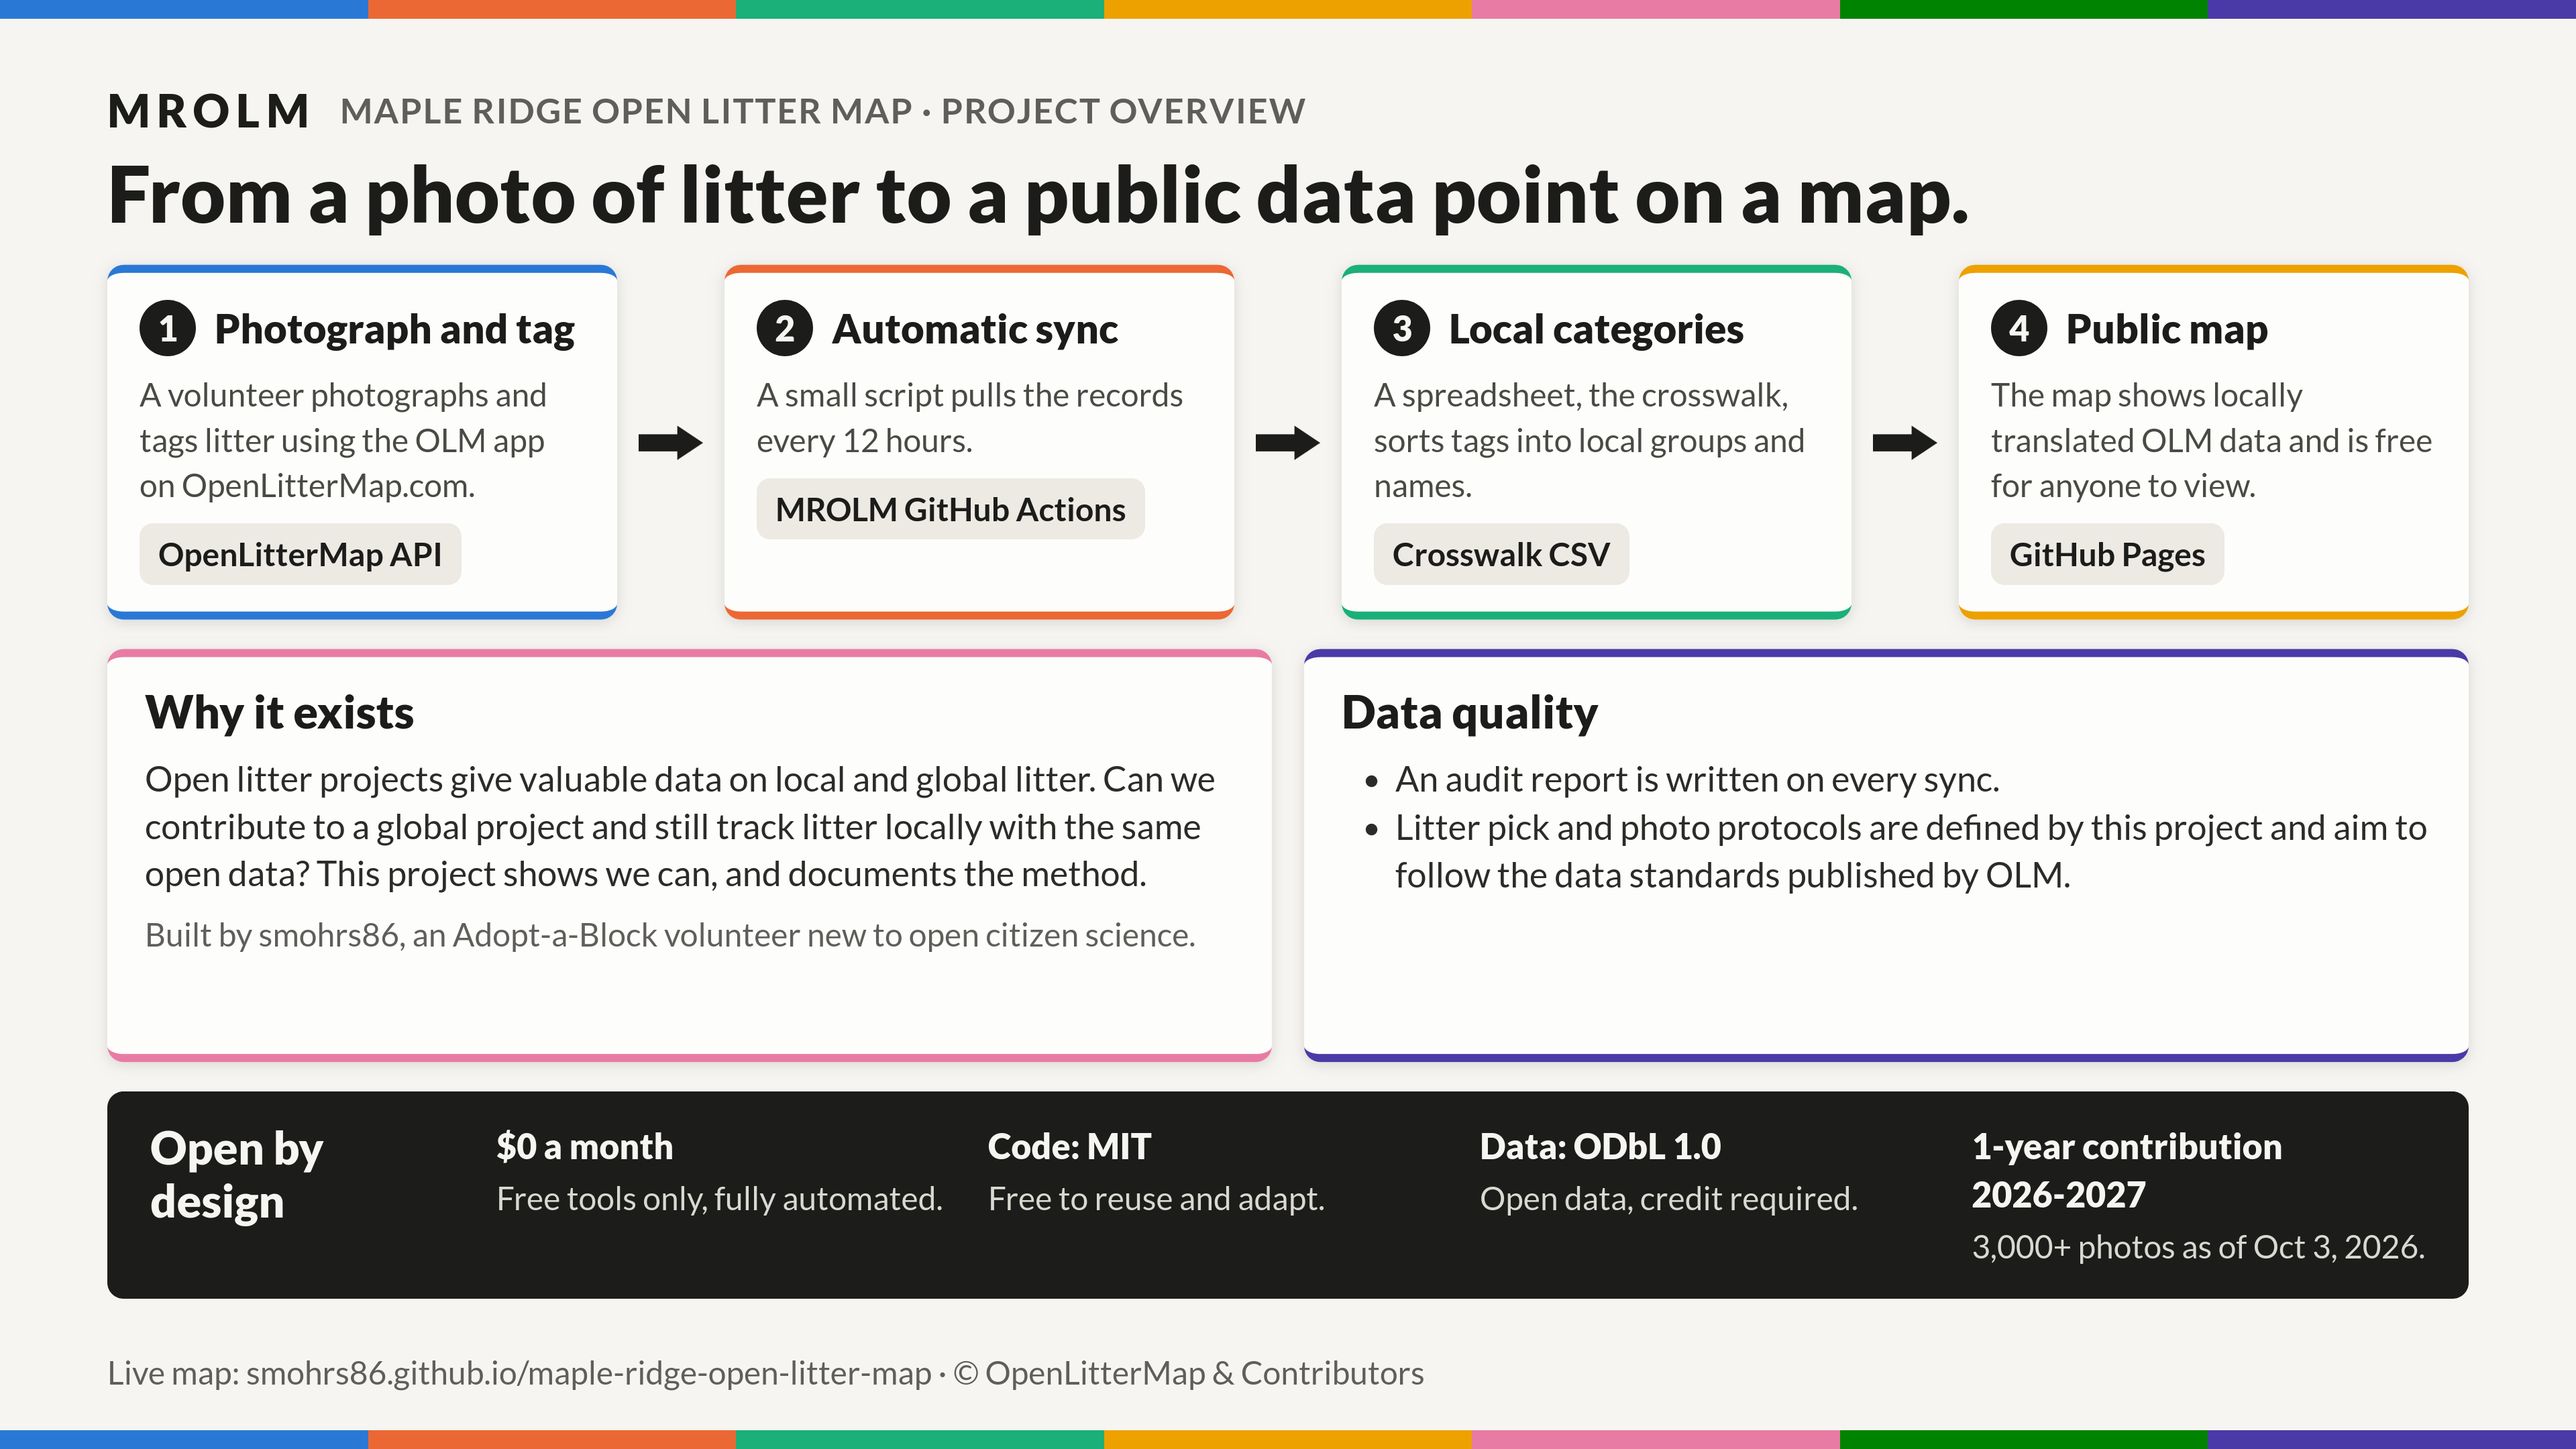
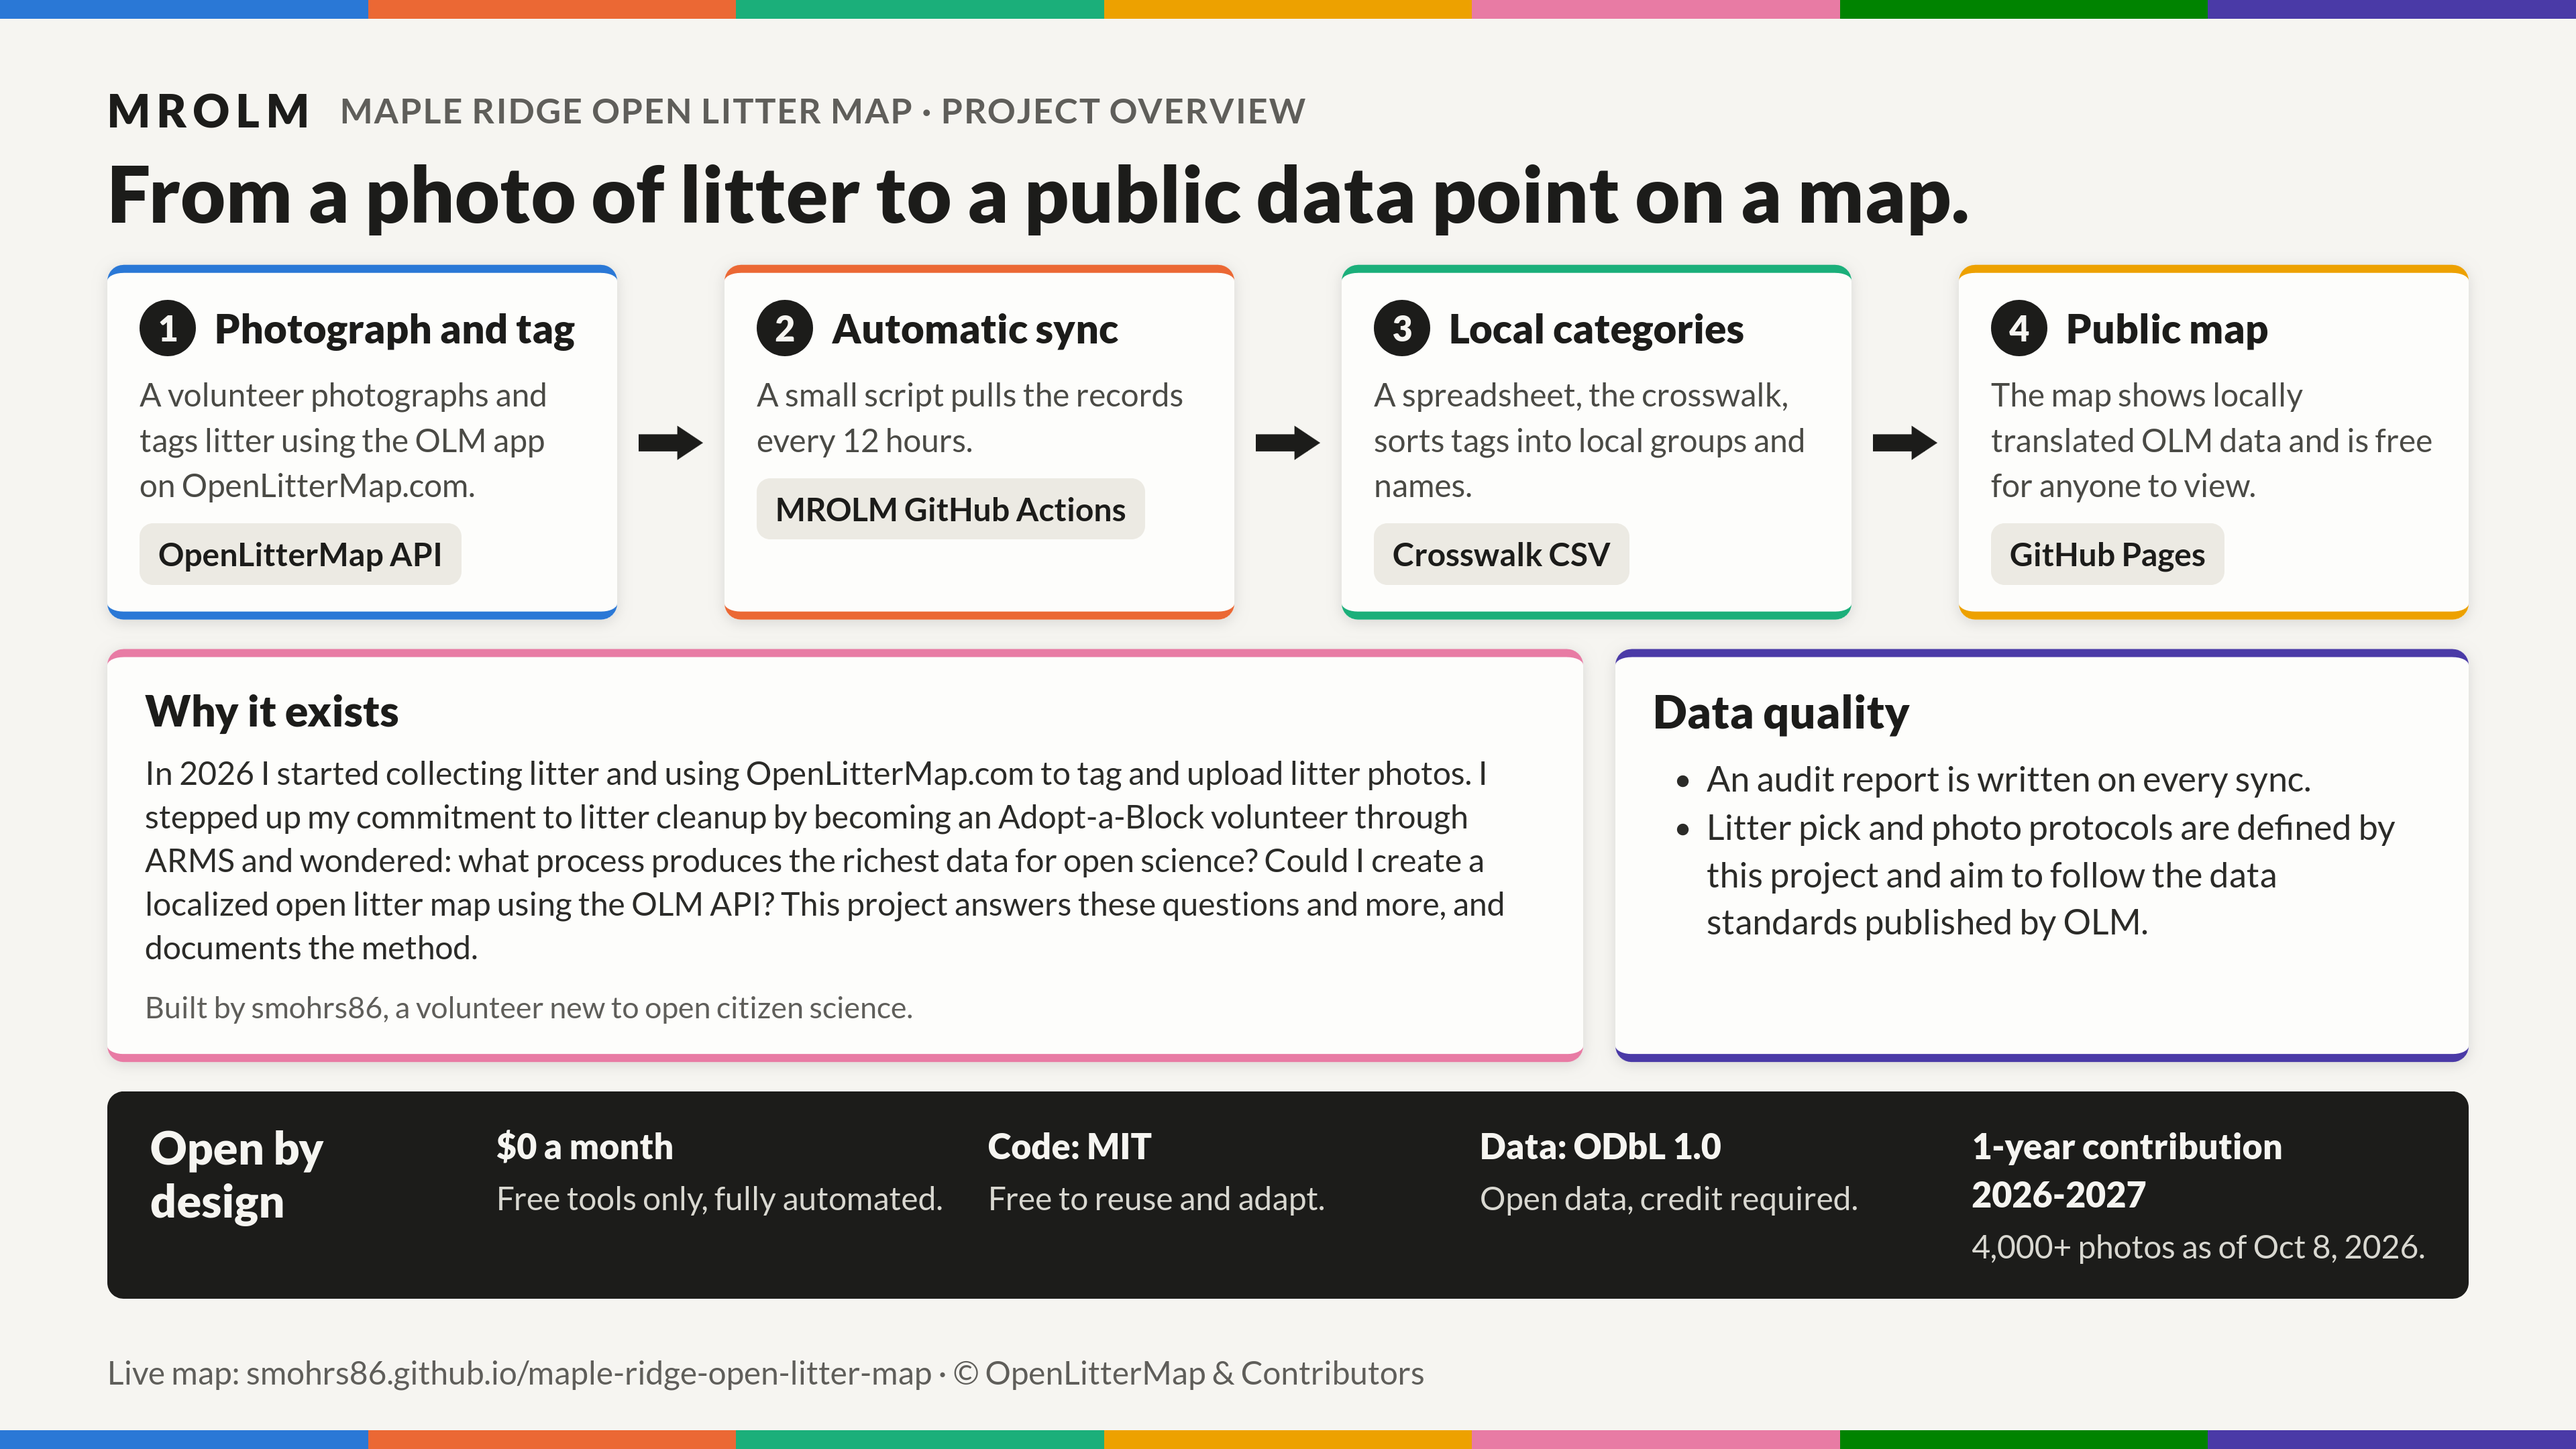
docs: overview slide and README story - 2026 start, Adopt-a-Block through ARMS

Changed region(s): [[0.0625, 0.4343, 0.9375, 0.7134], [0.5, 0.7134, 0.625, 0.7444]]

diff --git a/README.md b/README.md
@@ -18,9 +18,9 @@ Litter is photographed and tagged in the field using [OpenLitterMap](https://ope
 
 ## Why this project exists
 
-It started with volunteering for the Alouette River Management Society (ARMS). I wanted to do more, so I adopted a block and began picking up litter as an Adopt-a-Block volunteer. Before long I wanted to keep track of what I was finding, which led me to OpenLitterMap and to the idea of contributing to open data.
+In 2026 I started collecting litter and using OpenLitterMap to tag and upload photos of it. I stepped up my commitment to litter cleanup by becoming an Adopt-a-Block volunteer through the Alouette River Management Society (ARMS), and began to wonder what process produces the richest data for open science.
 
-That raised a question: what would a local open litter map look like, or what could it look like? Could I keep taking part in OpenLitterMap's global project and still see my records in local terms? And could a local lookup table, a *crosswalk*, translate OLM's tags into local categories? MROLM is my answer to those questions. *(smohrs86, maintainer)*
+What would a local open litter map look like, or what could it look like? Could I keep taking part in OpenLitterMap's global project and still see my records in local terms? And could a local lookup table, a *crosswalk*, translate OLM's tags into local categories? MROLM is my answer to those questions. *(smohrs86, maintainer)*
 
 OpenLitterMap uses one global tagging system for litter everywhere in the world. That's what makes it powerful, but a global category like `other/plastic` or `smoking/vape` doesn't answer local questions:
 
@@ -354,11 +354,11 @@ After a local test run, restore the data files with `git restore data/ public/da
 
 The five newest entries. The full log, one dated line per change, is in [docs/progress-log.md](docs/progress-log.md).
 
+- **2026-10-08:** Project overview slide (`assets/project-overview.png`) brought in line with the README: its "Why it exists" card now tells the maintainer's story (collecting litter and tagging it on OpenLitterMap in 2026, then becoming an Adopt-a-Block volunteer through ARMS, then the open-science questions), and the photo count is 4,000+ as of 2026-10-08. The README's story follows the same order.
 - **2026-10-08:** README: the local questions in "Why this project exists" no longer use dumping or paper straws. They now ask about picked up versus left in place, take-out coffee, drinks and snacks, and nicotine versus cannabis smoking litter, and the example global tag is `smoking/vape`. The hazards and picked-up questions moved out of that list, which is now about what a global tag can't show; a dog waste question and the picked-up question became "Try it" examples at the end of Reading the map. The story now says what a crosswalk is the first time it appears.
 - **2026-10-08:** README: "Why this project exists" now opens with how the project started, in the maintainer's own words (ARMS, Adopt-a-Block, OpenLitterMap, then the idea of a local open litter map). The data section now says only the maintainer's photos are mapped, even if other Maple Ridge OLM contributors exist, and how to offer help.
 - **2026-10-08:** README newcomer fixes: plain wording in the status note, a line explaining the Dumping sizes and UNCLASS under the category tree, a download link example in Using the data, the sync's page-reading detail moved from How it works to Running it yourself, and maintainer notes (zoom constants, heatmap history) moved out of Reading the map. No change to the map or data.
 - **2026-10-08:** README reordered for newcomers: why the project exists, reading the map and the local categories come first, then using the data, then the maintainer detail. The full progress log moved to `docs/progress-log.md`; the README keeps the five newest entries.
-- **2026-10-08:** README brought up to date: the status note, proof-of-concept criterion 5, the roadmap (Stages 2 and 3 and the tag cleanup marked done), the pipeline diagram and the description of how the sync reads OLM now match the current project. No change to the map or data.
 
 ---
 

diff --git a/docs/progress-log.md b/docs/progress-log.md
@@ -2,6 +2,7 @@
 
 Newest first, one line per change. Claude adds a line whenever the code, crosswalk or docs change, and copies the five newest into the README's Recent changes.
 
+- **2026-10-08:** Project overview slide (`assets/project-overview.png`) brought in line with the README: its "Why it exists" card now tells the maintainer's story (collecting litter and tagging it on OpenLitterMap in 2026, then becoming an Adopt-a-Block volunteer through ARMS, then the open-science questions), and the photo count is 4,000+ as of 2026-10-08. The README's story follows the same order.
 - **2026-10-08:** README: the local questions in "Why this project exists" no longer use dumping or paper straws. They now ask about picked up versus left in place, take-out coffee, drinks and snacks, and nicotine versus cannabis smoking litter, and the example global tag is `smoking/vape`. The hazards and picked-up questions moved out of that list, which is now about what a global tag can't show; a dog waste question and the picked-up question became "Try it" examples at the end of Reading the map. The story now says what a crosswalk is the first time it appears.
 - **2026-10-08:** README: "Why this project exists" now opens with how the project started, in the maintainer's own words (ARMS, Adopt-a-Block, OpenLitterMap, then the idea of a local open litter map). The data section now says only the maintainer's photos are mapped, even if other Maple Ridge OLM contributors exist, and how to offer help.
 - **2026-10-08:** README newcomer fixes: plain wording in the status note, a line explaining the Dumping sizes and UNCLASS under the category tree, a download link example in Using the data, the sync's page-reading detail moved from How it works to Running it yourself, and maintainer notes (zoom constants, heatmap history) moved out of Reading the map. No change to the map or data.
